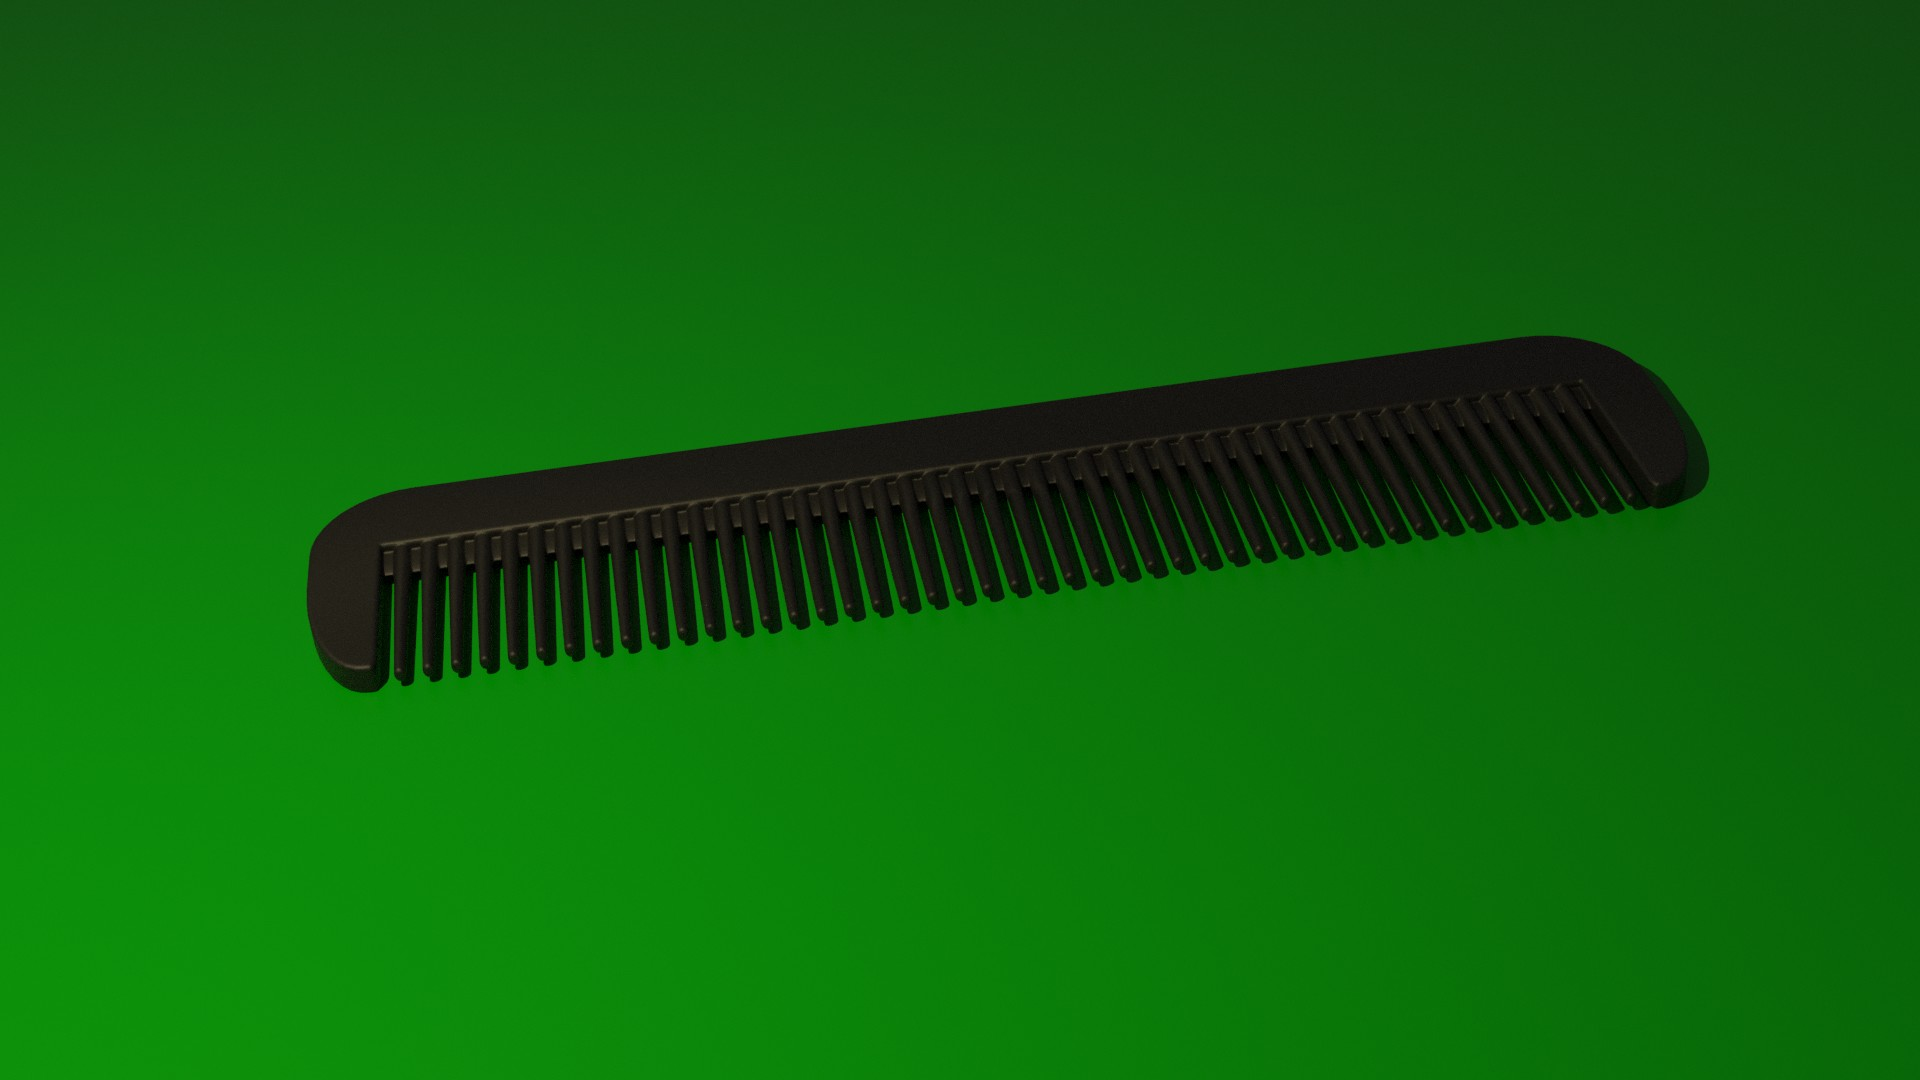
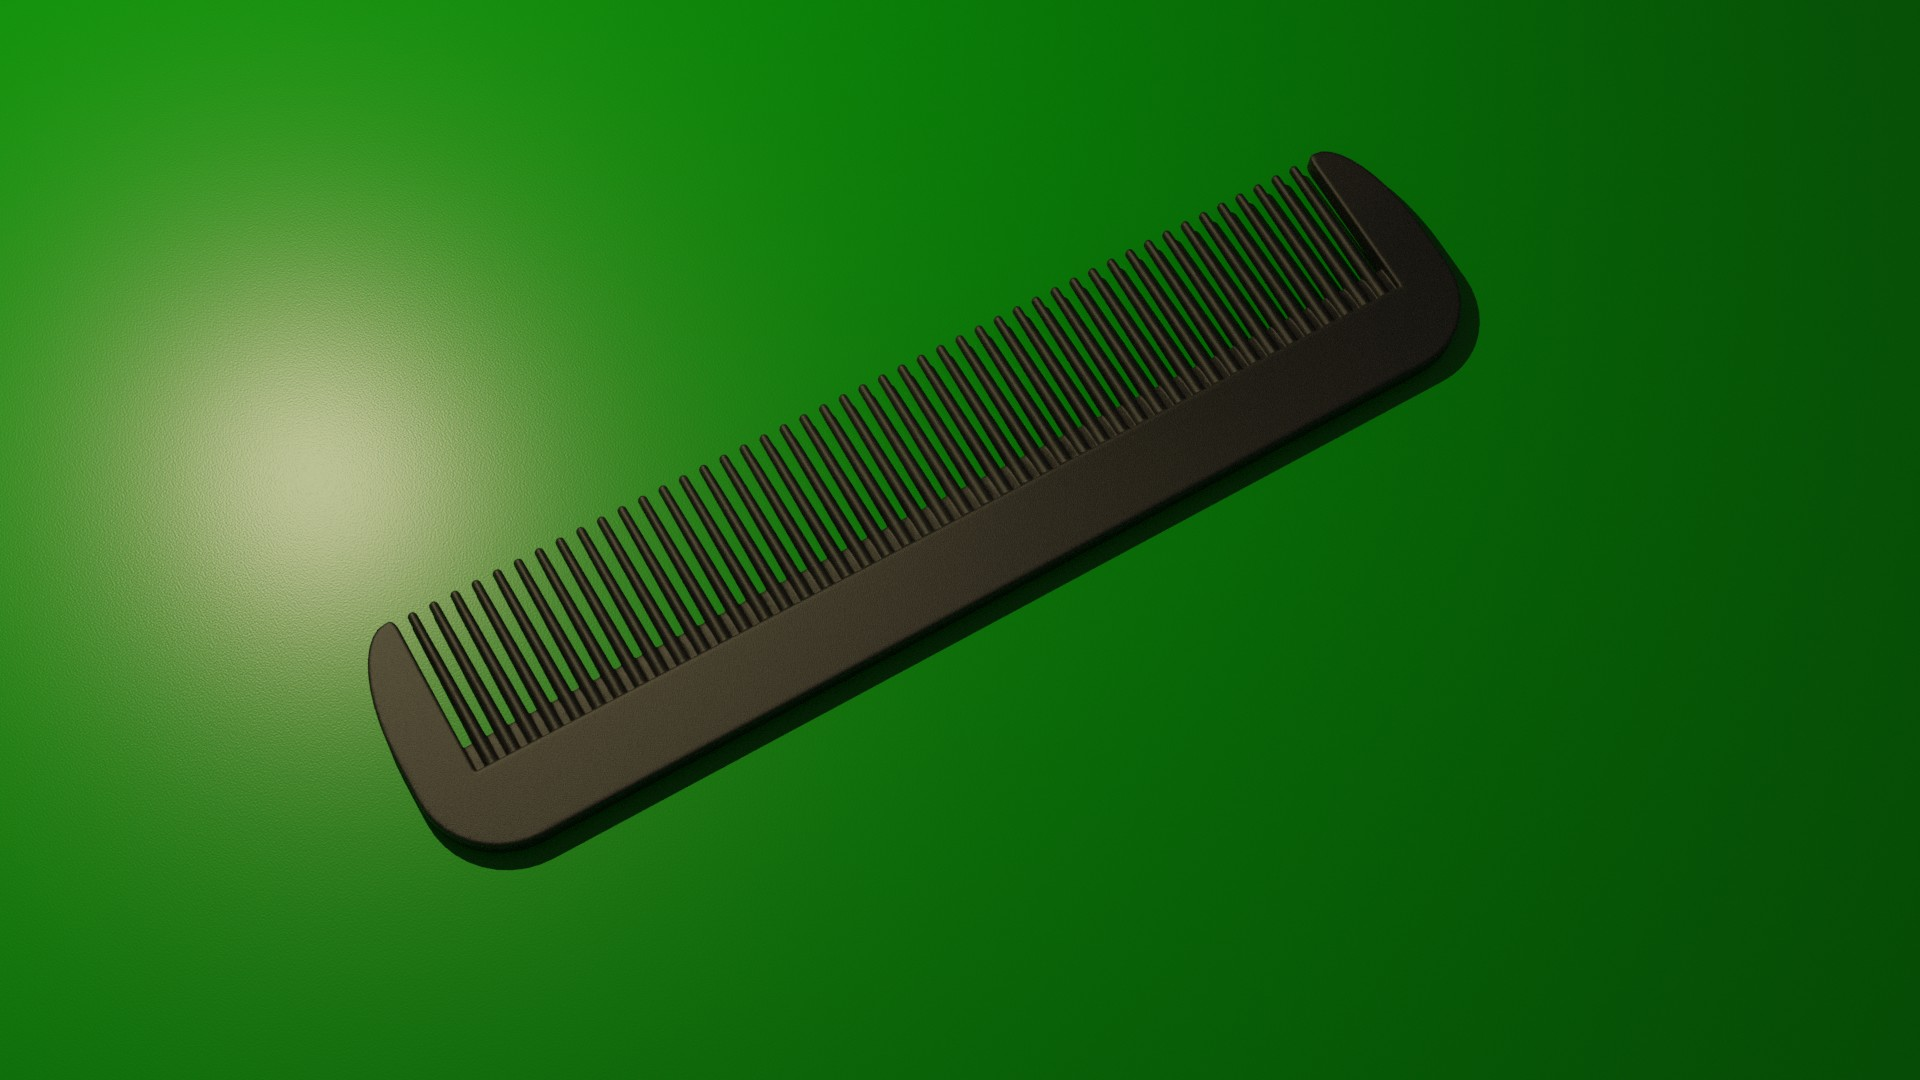
environment fix

diff --git a/main.py b/main.py
@@ -42,10 +42,11 @@ shaders.applyBase(mat, shaders.COLORS["GREEN"])
 ground.data.materials.append(mat)
 
 #world = bpy.context.scene.world
-#world.node_tree.nodes["Background"].inputs["Strength"].default_value = 0.1
+#world.node_tree.nodes["Background"].inputs["Strength"].default_value = 0.4
 #node_env = world.node_tree.nodes.new(type = "ShaderNodeTexEnvironment")
 #img_path = project_path + "\\hdris\\empty_warehouse_01_1k.hdr"
 #node_env.image = bpy.data.images.load(img_path)
+#world.node_tree.links.new(node_env.outputs["Color"], world.node_tree.nodes["Background"].inputs["Color"])
 
 #ADD CAMERA
 cam_max_view_angle_x = 60
